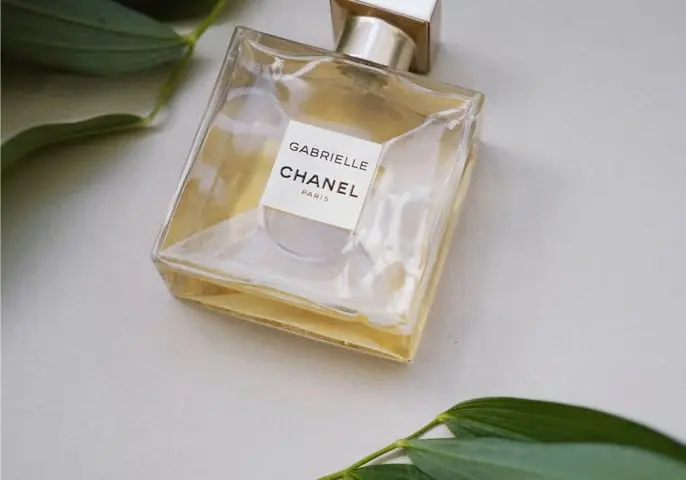
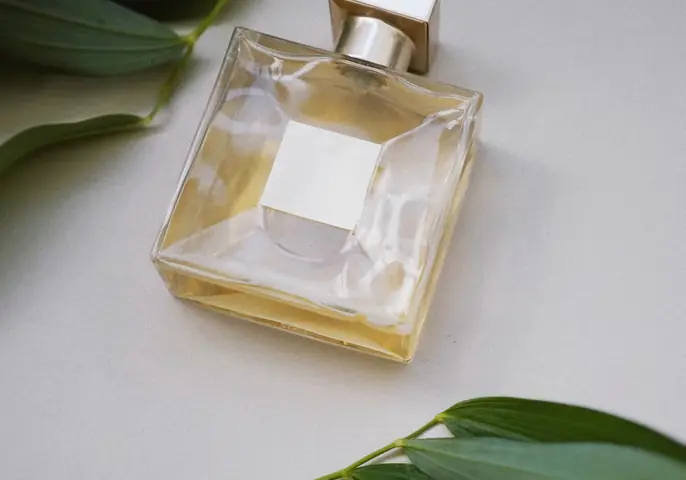
Rebrand the product card as Maison Verelle, self-host its fonts and clear the bottle label

diff --git a/index.html b/index.html
@@ -22,40 +22,46 @@
       fetchpriority="high"
     >
 
-    <link rel="preconnect" href="https://fonts.googleapis.com">
-    <link rel="preconnect" href="https://fonts.gstatic.com" crossorigin>
-    <link
-      rel="preload"
-      as="style"
-      href="https://fonts.googleapis.com/css2?family=Fraunces:opsz,wght@9..144,700&family=Montserrat:wght@500;700&display=swap"
-      onload="this.onload=null;this.rel='stylesheet'"
-    >
-    <noscript>
-      <link
-        rel="stylesheet"
-        href="https://fonts.googleapis.com/css2?family=Fraunces:opsz,wght@9..144,700&family=Montserrat:wght@500;700&display=swap"
-      >
-    </noscript>
-
-    <title>Product Preview Card Component</title>
+    <title>Maison Verelle | Lumière Essence Eau de Parfum</title>
     <meta
       name="description"
-      content="Frontend Mentor Product Preview Card Component challenge built with React and TypeScript."
+      content="Lumière Essence, a floral, solar and voluptuous eau de parfum from Maison Verelle, Paris. Add it to your cart today."
+    >
+    <link
+      rel="canonical"
+      href="https://product-preview-card-component.abdelrhman-ahmed8881.workers.dev/"
     >
 
     <meta property="og:type" content="website">
+    <meta property="og:site_name" content="Maison Verelle">
     <meta
       property="og:url"
-      content="https://product-preview-card-component.abdelrhman-ahmed8881.workers.dev"
+      content="https://product-preview-card-component.abdelrhman-ahmed8881.workers.dev/"
     >
-    <meta property="og:title" content="Product Preview Card Component">
+    <meta property="og:title" content="Maison Verelle | Lumière Essence Eau de Parfum">
     <meta
       property="og:description"
-      content="Frontend Mentor Product Preview Card Component challenge built with React and TypeScript."
+      content="Lumière Essence, a floral, solar and voluptuous eau de parfum from Maison Verelle, Paris. Add it to your cart today."
     >
     <meta
       property="og:image"
-      content="https://product-preview-card-component.abdelrhman-ahmed8881.workers.dev/screenshot.png"
+      content="https://product-preview-card-component.abdelrhman-ahmed8881.workers.dev/opengraph-image.jpg"
+    >
+    <meta property="og:image:width" content="1200">
+    <meta property="og:image:height" content="630">
+    <meta
+      property="og:image:alt"
+      content="Maison Verelle: Lumière Essence eau de parfum, beside the bottle"
+    >
+    <meta name="twitter:card" content="summary_large_image">
+    <meta name="twitter:title" content="Maison Verelle | Lumière Essence Eau de Parfum">
+    <meta
+      name="twitter:description"
+      content="Lumière Essence, a floral, solar and voluptuous eau de parfum from Maison Verelle, Paris. Add it to your cart today."
+    >
+    <meta
+      name="twitter:image"
+      content="https://product-preview-card-component.abdelrhman-ahmed8881.workers.dev/opengraph-image.jpg"
     >
   </head>
   <body>

diff --git a/src/data/data.ts b/src/data/data.ts
@@ -4,12 +4,12 @@ export const productPreviewCardData: ProductPreviewCardData = {
   image: {
     mobile: "/images/image-product-mobile.webp",
     desktop: "/images/image-product-desktop.webp",
-    alt: "Bottle of Gabrielle Essence perfume on pink background",
+    alt: "A bottle of Lumière Essence eau de parfum among green leaves",
   },
   category: "perfume",
-  title: "Gabrielle Essence Eau De Parfum",
+  title: "Lumière Essence Eau De Parfum",
   description:
-    "A floral, solar and voluptuous interpretation composed by Olivier Polge, Perfumer-Creator for the House of CHANEL.",
+    "A floral, solar and voluptuous interpretation composed by the in-house perfumers of Maison Verelle, Paris.",
   price: {
     current: 149.99,
     original: 169.99,

diff --git a/src/index.css b/src/index.css
@@ -9,8 +9,8 @@
   --color-cream: hsl(30, 38%, 92%);
   --color-white: hsl(0, 0%, 100%);
 
-  --font-montserrat: "Montserrat", sans-serif;
-  --font-fraunces: "Fraunces", serif;
+  --font-montserrat: "Montserrat Variable", sans-serif;
+  --font-fraunces: "Fraunces Variable", serif;
 }
 
 body {

diff --git a/src/main.tsx b/src/main.tsx
@@ -1,3 +1,5 @@
+import "@fontsource-variable/fraunces/opsz.css";
+import "@fontsource-variable/montserrat";
 import { StrictMode } from "react";
 import { createRoot } from "react-dom/client";
 import App from "./App.tsx";
